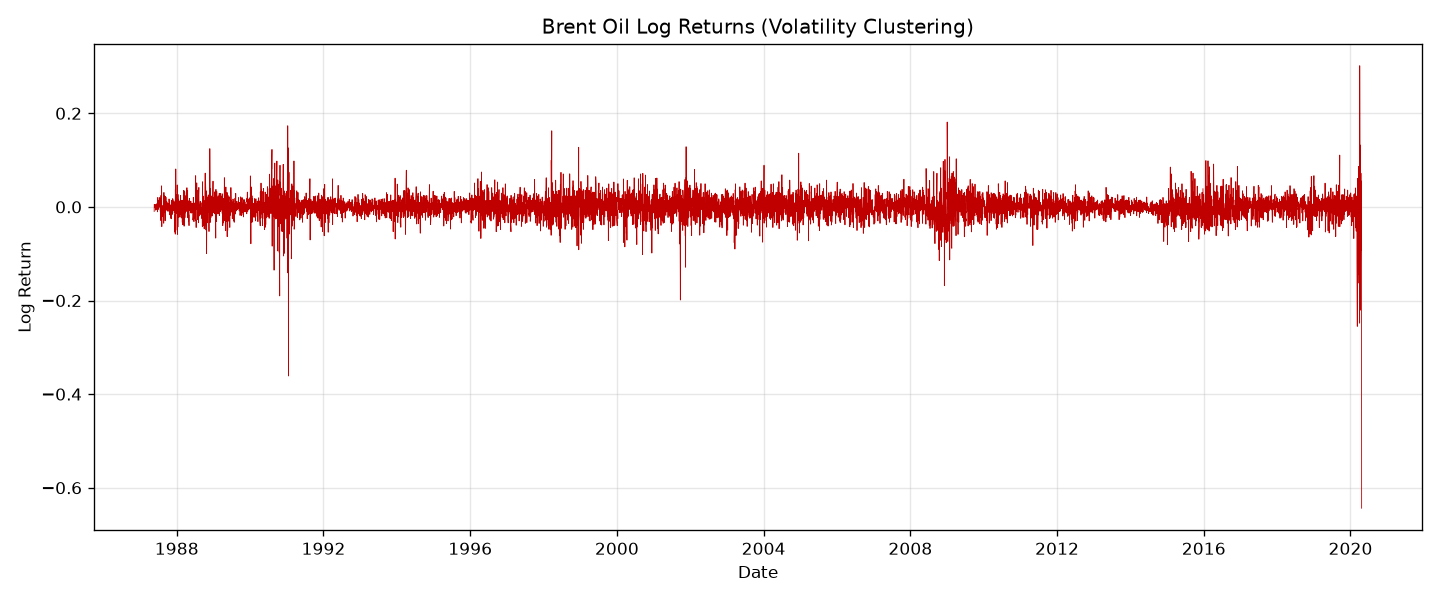
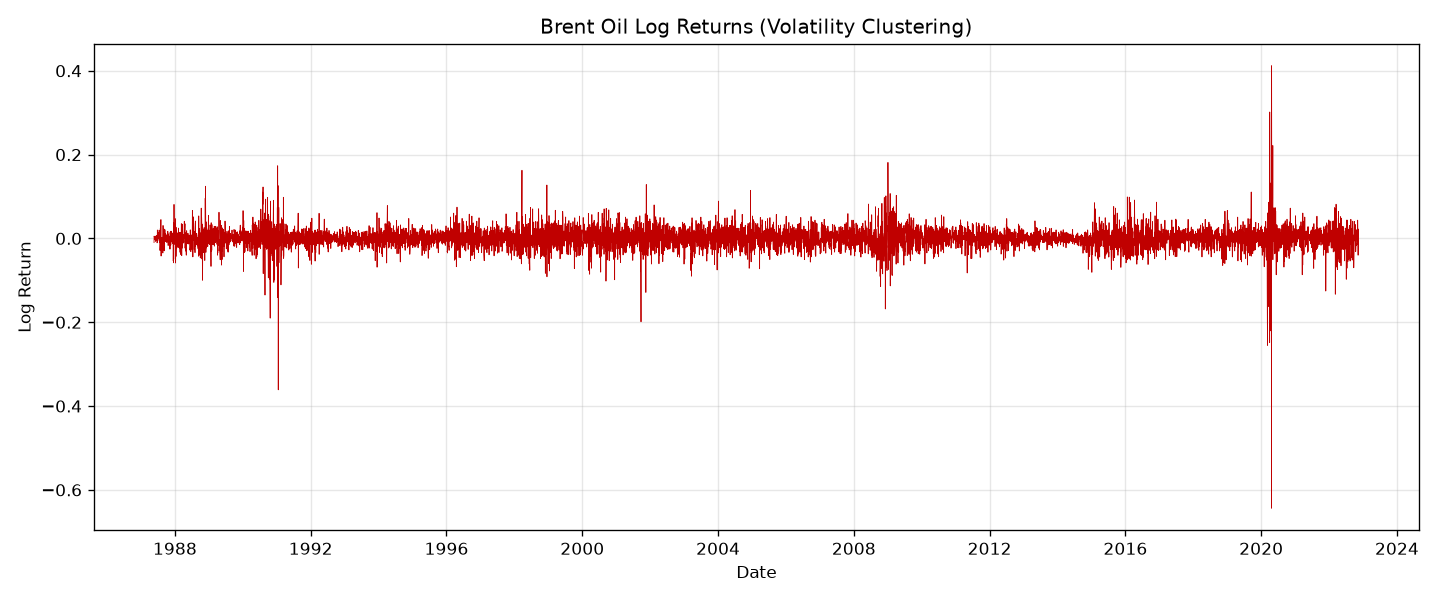
modifay  the chart  the date format of oil prise  modifay

diff --git a/backend/services/data_loader.py b/backend/services/data_loader.py
@@ -20,13 +20,34 @@ def load_prices():
     """
     Loads Brent oil price data.
     Expects columns: Date, Price
-    If the real file is not present yet, generates placeholder
-    synthetic data so the API/frontend can be developed in parallel.
+
+    The instructor-provided dataset mixes two date formats:
+      - '15-Apr-20'      (day-month abbreviation-year, older rows)
+      - 'Apr 22, 2020'   (month abbreviation day, year, newer rows)
+    Both are parsed and combined so no rows are silently dropped.
+
+    Falls back to generated placeholder price data if the real file
+    is not present yet.
     """
     if os.path.exists(PRICES_FILE):
         df = pd.read_csv(PRICES_FILE)
-        df["Date"] = pd.to_datetime(df["Date"], format="%d-%b-%y", errors="coerce")
-        df = df.dropna(subset=["Date"]).sort_values("Date")
+
+        # Try the older short format first: e.g. 15-Apr-20
+        parsed_old = pd.to_datetime(df["Date"], format="%d-%b-%y", errors="coerce")
+
+        # Try the newer long format: e.g. Apr 22, 2020
+        parsed_new = pd.to_datetime(df["Date"], format="%b %d, %Y", errors="coerce")
+
+        # Combine: use whichever format successfully parsed each row
+        df["Date"] = parsed_old.fillna(parsed_new)
+
+        before = len(df)
+        df = df.dropna(subset=["Date"]).sort_values("Date").reset_index(drop=True)
+        after = len(df)
+
+        if before != after:
+            print(f"Warning: dropped {before - after} rows with unparseable dates")
+
         return df
 
     # --- Placeholder synthetic data (used only until real CSV is added) ---